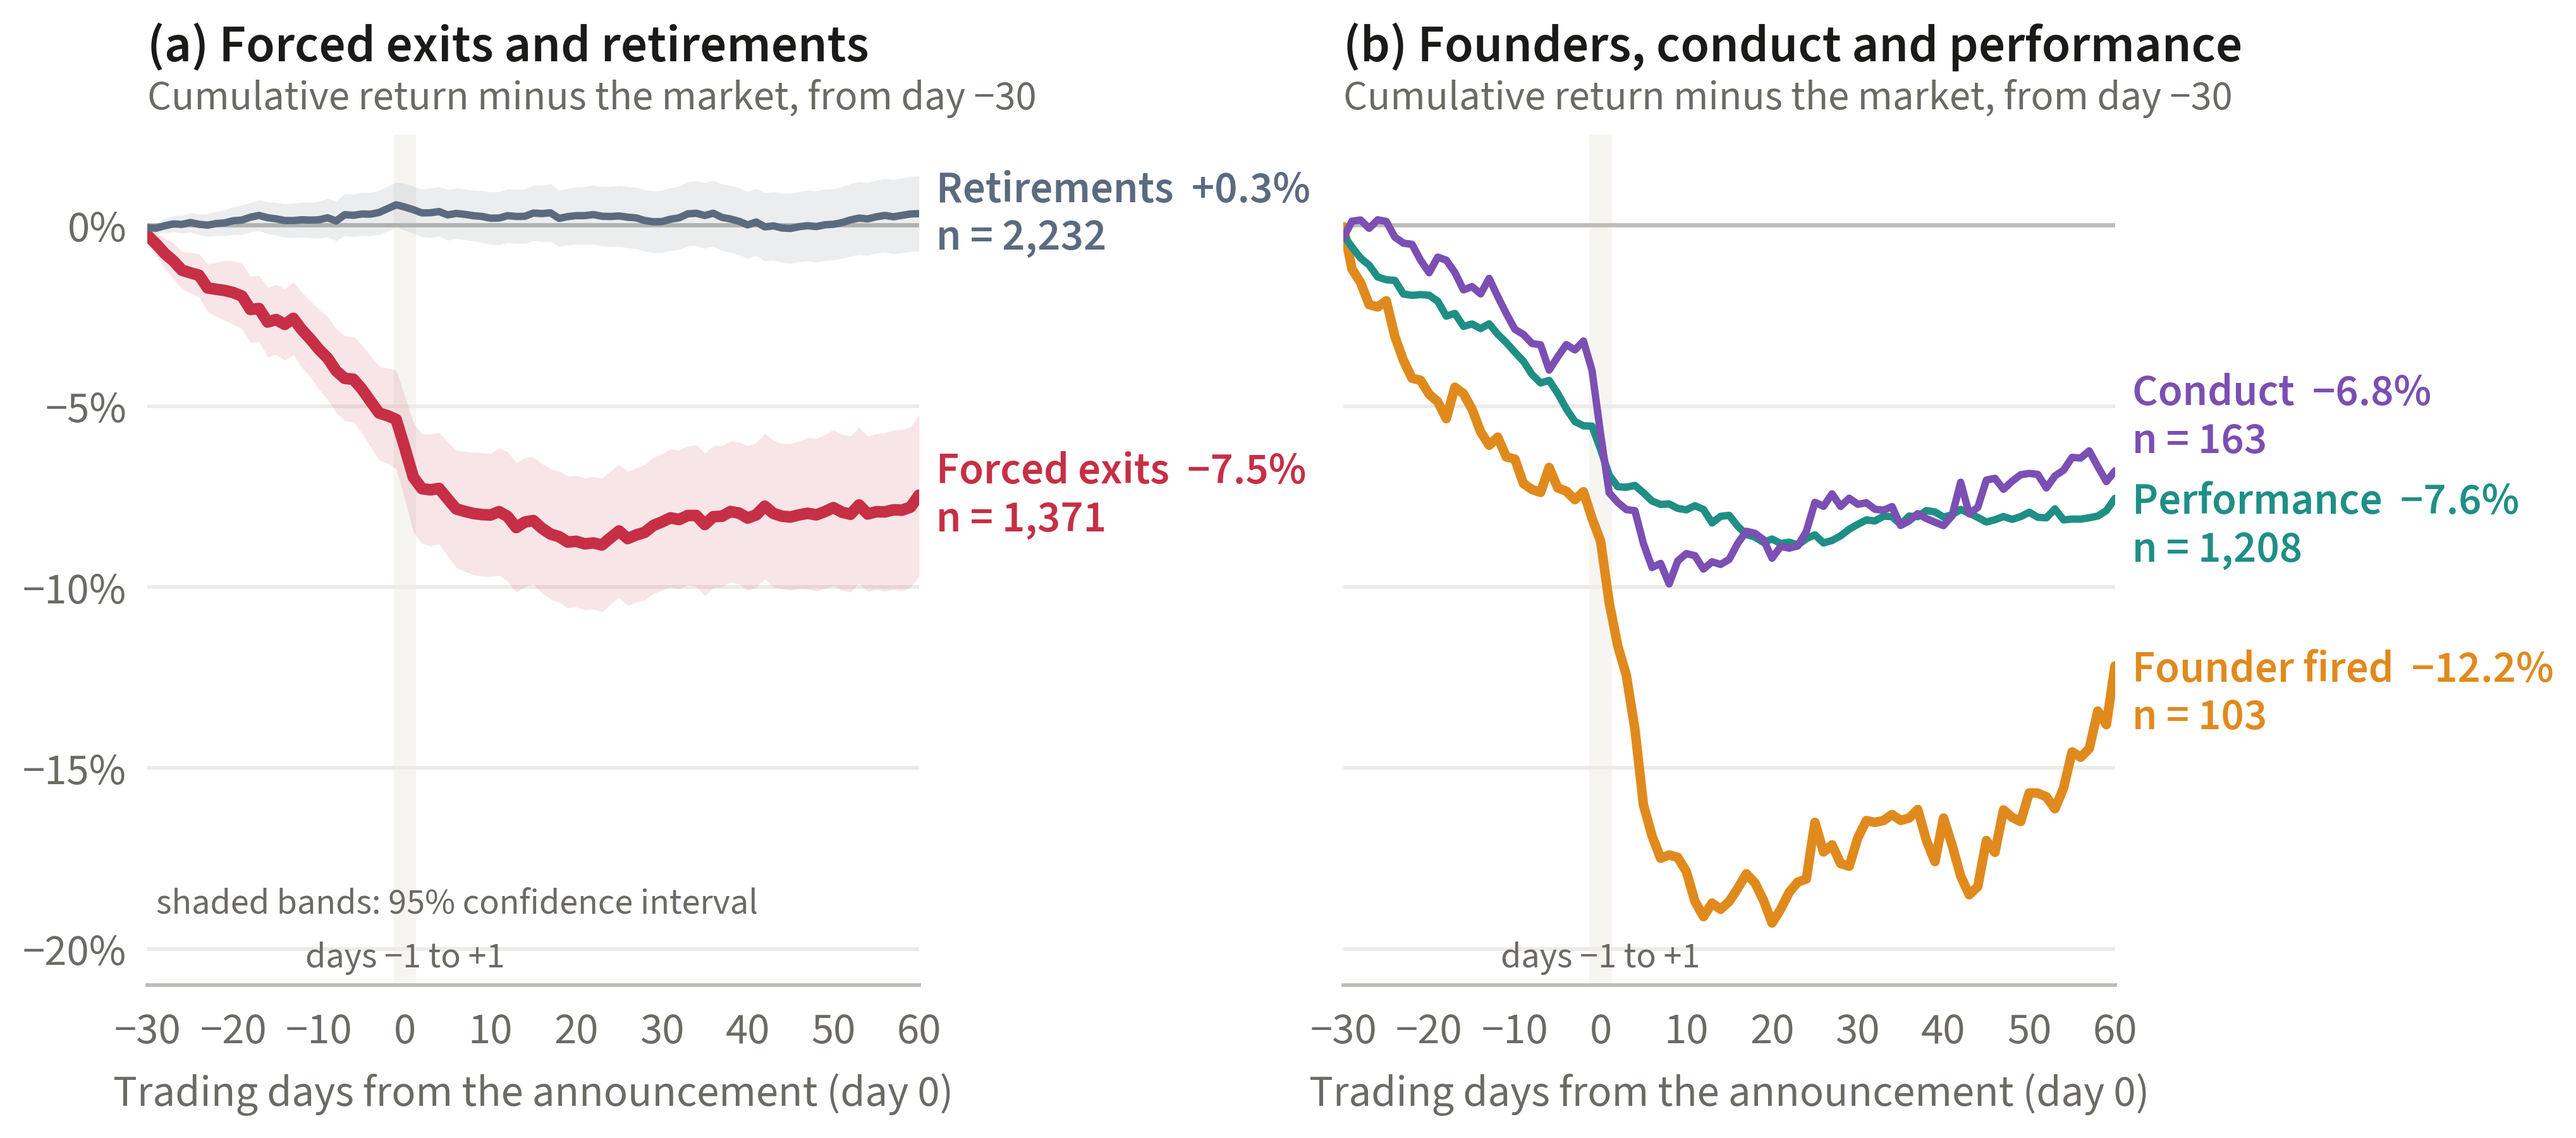
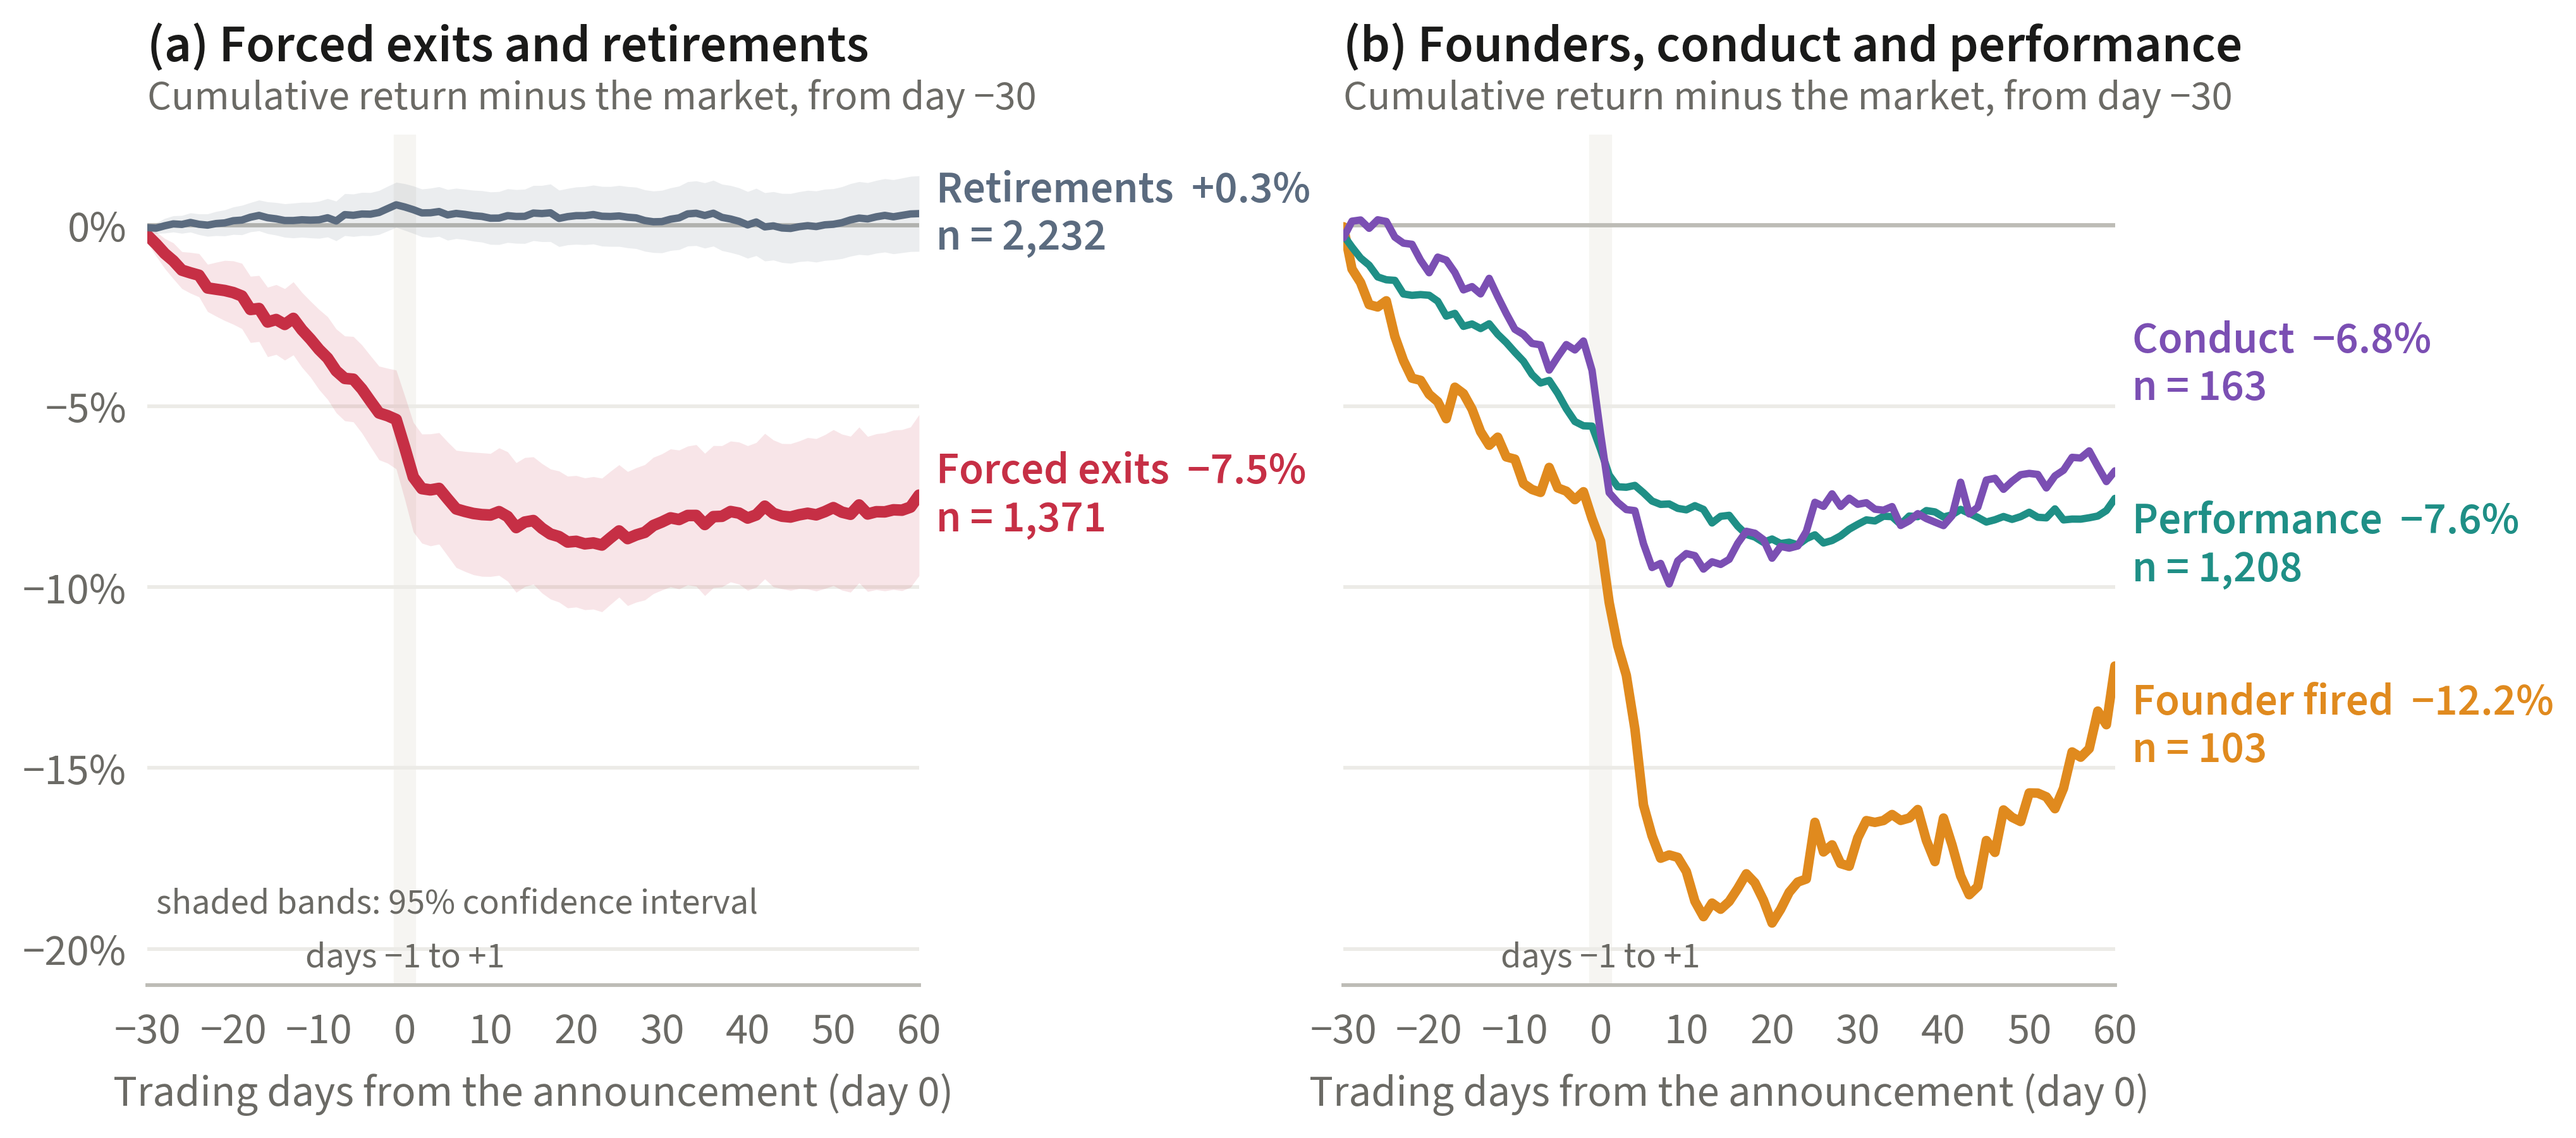
Figures: end labels and horizon counts no longer collide

Changed region(s): [[0.8103, 0.2798, 0.9973, 0.5286], [0.8103, 0.5597, 0.9973, 0.6841]]

diff --git a/code/figures.py b/code/figures.py
@@ -206,7 +206,7 @@ def fig1_event_time(data: dict):
             if key in ("forced", "retired"):
                 ax.fill_between(days, s["lo"], s["hi"], color=color, alpha=0.12, linewidth=0, zorder=2)
             items.append((s["mean"][-1], f"{label}  {_pct(s['mean'][-1])}\nn = {s['n']:,}", color))
-        _end_labels(ax, 62, items, 0.03)
+        _end_labels(ax, 62, items, 0.05)  # two-line labels need about 5 points of the axis between them
         ax.set_xlim(-30, 60)
         ax.set_xticks([-30, -20, -10, 0, 10, 20, 30, 40, 50, 60])
         ax.set_xlabel("Trading days from the announcement (day 0)", color=MUTED, fontsize=8.5)
@@ -246,12 +246,12 @@ def fig2_long_run(data: dict):
     fn = data["long_run"]["forced"]["n"]
     for h in (1, 3, 5):
         ax.axvline(12 * h, color=HAIR, linewidth=0.8, zorder=0)
-        ax.text(12 * h, -0.88, f"{h} yr: n = {fn[12 * h - 1]:,} forced", ha="center", color=MUTED, fontsize=7)
+        ax.text(12 * h, -0.985, f"{h} yr: n = {fn[12 * h - 1]:,} forced", ha="center", color=MUTED, fontsize=7)
     ax.scatter([1.6], [0.105], color="white", edgecolor=MUTED, linewidth=1.2, s=22, marker="D")
     ax.text(
         2.6, 0.105, "median return against a matched firm at 1, 3 and 5 years", color=MUTED, fontsize=7.5, va="center"
     )
-    ax.set_ylim(-0.9, 0.14)
+    ax.set_ylim(-1.0, 0.14)
     ax.set_xlim(0, 62)
     ax.set_xticks([0, 6, 12, 18, 24, 30, 36, 42, 48, 54, 60])
     ax.set_xlabel("Months after the announcement (21 trading days each, from day +2)", color=MUTED, fontsize=8.5)
